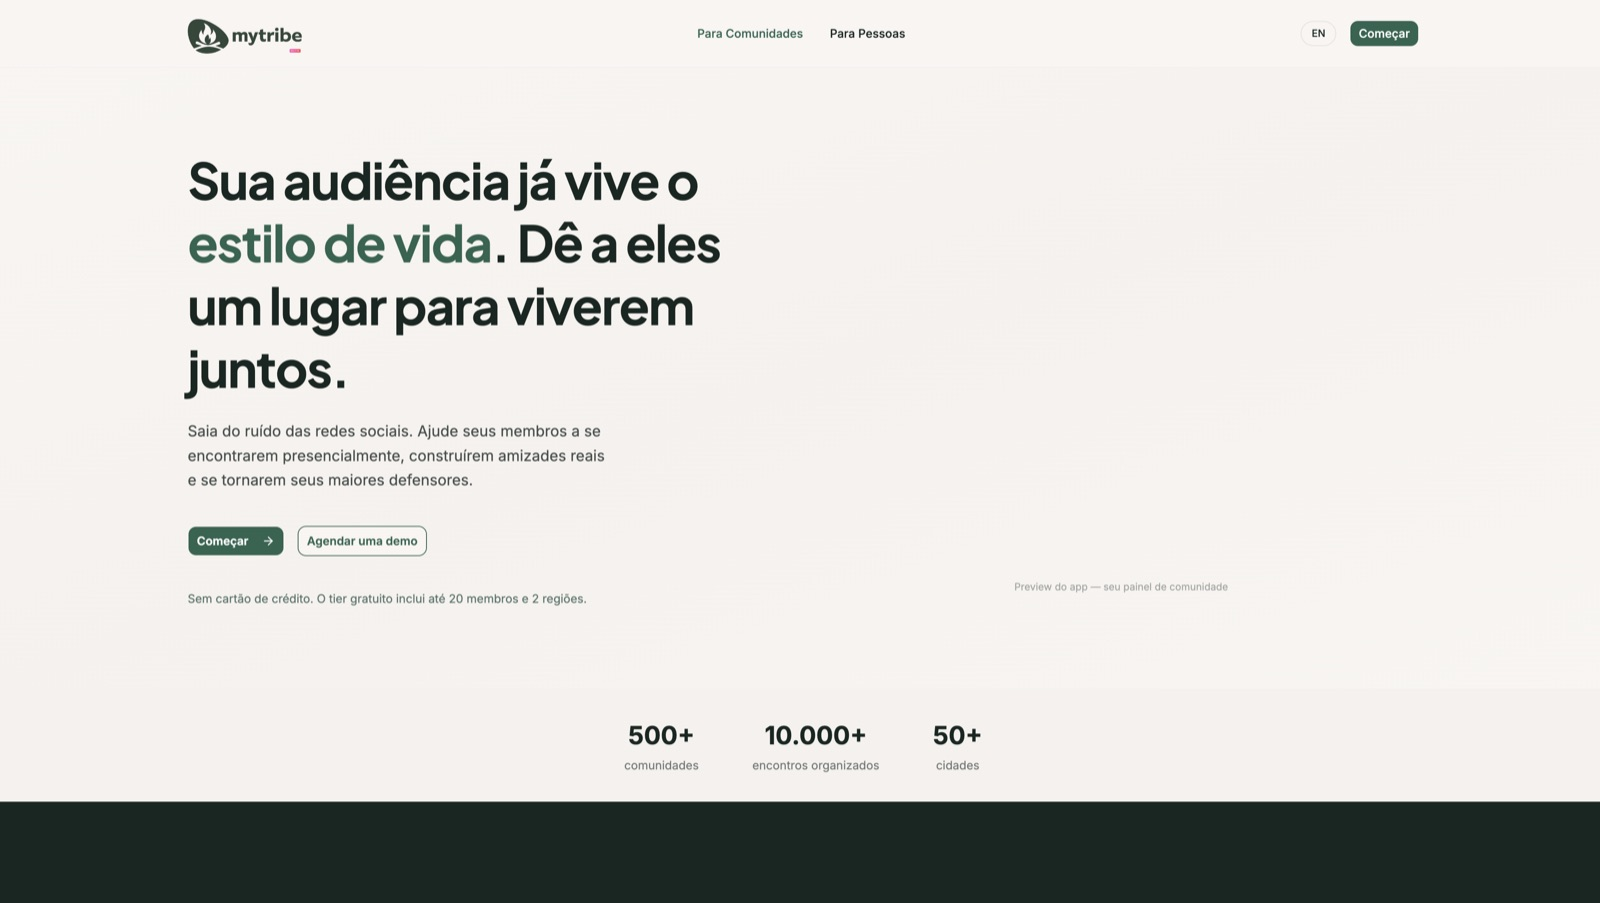
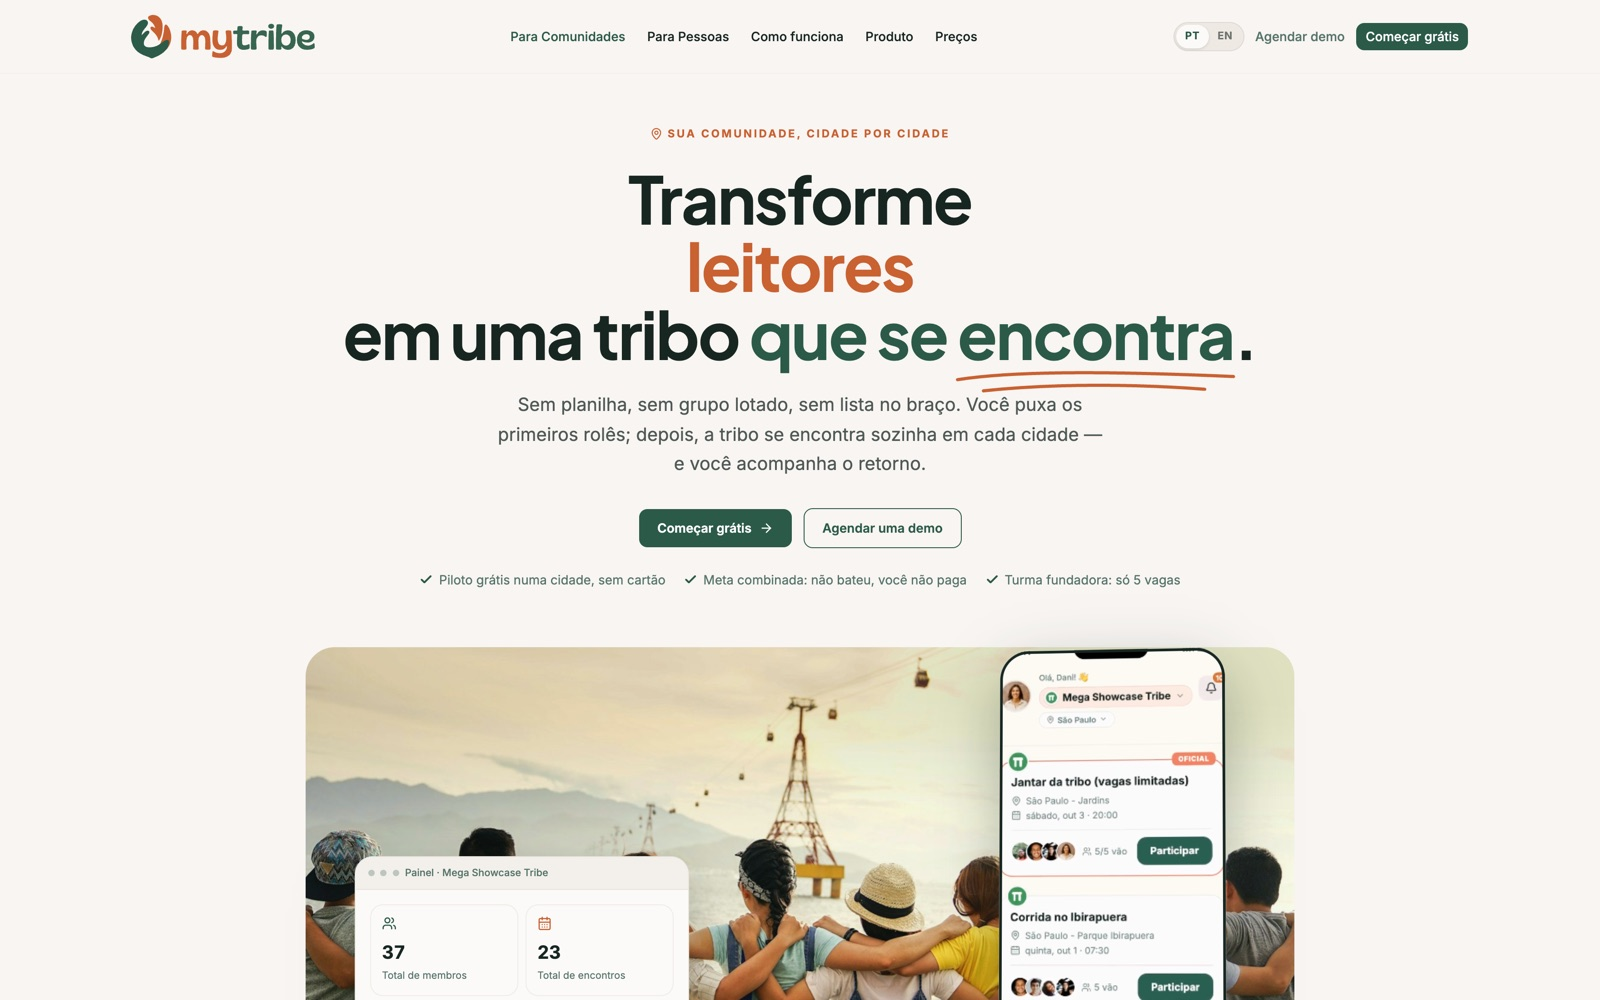
Drop Your Daily Cards from the portfolio and refresh the MyTribe cover.
The MyTribe link now points to usemytribe.com instead of the old preview landing.

diff --git a/src/lib/copy.ts b/src/lib/copy.ts
@@ -246,7 +246,7 @@ export const copies: Record<Locale, Copy> = {
       location: "Balneário Camboriú, SC",
       year: "2026",
       nowLabel: "Agora",
-      now: ["Layback", "MyTribe", "Your Daily Cards"],
+      now: ["Layback", "MyTribe"],
       talk: "Conversar",
     },
     thinking: {
@@ -316,7 +316,7 @@ export const copies: Record<Locale, Copy> = {
           title: "MyTribe",
           metric: "iOS / Android",
           body: "App de comunidades digitais: pessoas por cidade, mensagem, RSVP, push. Backend no Supabase, admin em Next.js com Stripe, convite com deep link. Eu queria um produto em que a conversa tenha para onde ir.",
-          href: "https://my-tribe-landing.vercel.app/",
+          href: "https://usemytribe.com/",
         },
         {
           id: "ritmo",
@@ -331,13 +331,6 @@ export const copies: Record<Locale, Copy> = {
           metric: "IA",
           body: "Agregador financeiro: Open Finance, cotações, patrimônio, fluxo de caixa e plano de aportes. Todo dia, o Claude lê os dados e escreve a leitura do mês em blocos visuais.",
           href: "/projetos/finance-hub",
-        },
-        {
-          id: "cards",
-          title: "Your Daily Cards",
-          metric: "app store",
-          body: "Hábitos e intenções viram a mão do dia e missões aleatórias com XP. Sem conta, sem servidor, PT e EN. O app cabe no aparelho — e essa restrição é o produto.",
-          href: "https://apps.apple.com/app/id6767341939",
         },
         {
           id: "bot",
@@ -519,7 +512,7 @@ export const copies: Record<Locale, Copy> = {
       location: "Balneário Camboriú, Brazil",
       year: "2026",
       nowLabel: "Now",
-      now: ["Layback", "MyTribe", "Your Daily Cards"],
+      now: ["Layback", "MyTribe"],
       talk: "Start a conversation",
     },
     thinking: {
@@ -589,7 +582,7 @@ export const copies: Record<Locale, Copy> = {
           title: "MyTribe",
           metric: "iOS / Android",
           body: "A social app for digital communities: people by city, messaging, RSVP, push. Supabase on the back, a Next.js admin with Stripe, invites with deep links. I wanted a product where the conversation has somewhere to go.",
-          href: "https://my-tribe-landing.vercel.app/",
+          href: "https://usemytribe.com/",
         },
         {
           id: "ritmo",
@@ -604,13 +597,6 @@ export const copies: Record<Locale, Copy> = {
           metric: "AI",
           body: "A finance aggregator: Open Finance, quotes, net worth, cash flow and a monthly investing plan. Every day, Claude reads the data and writes the month's summary as visual blocks. (Case study in Portuguese.)",
           href: "/projetos/finance-hub",
-        },
-        {
-          id: "cards",
-          title: "Your Daily Cards",
-          metric: "app store",
-          body: "Habits and intentions become a daily hand and timed missions with XP. No account, no server, PT and EN. The app lives on the phone — and that constraint is the product.",
-          href: "https://apps.apple.com/app/id6767341939",
         },
         {
           id: "bot",

diff --git a/src/components/versions/StudioPage.tsx b/src/components/versions/StudioPage.tsx
@@ -25,7 +25,6 @@ const stacks: Record<string, string[]> = {
   mytribe: ["Expo", "Supabase", "Stripe"],
   ritmo: ["Swift", "SwiftUI", "SQLite", "local-first"],
   financehub: ["Next.js", "Postgres", "Open Finance", "Claude"],
-  cards: ["React Native", "local-first"],
   bot: ["NestJS", "Rust"],
   simulation: ["Firebase", "BullMQ", "Postgres"],
   automatize: ["AI agent", "WhatsApp"],
@@ -41,7 +40,6 @@ const covers: Record<
   mytribe: { kind: "photo", src: "/comercial/mytribe.jpg", tone: "" },
   ritmo: { kind: "photo", src: "/projetos/ritmo/inicio.png", tone: "" },
   financehub: { kind: "photo", src: "/projetos/finance-hub/home.jpg", tone: "" },
-  cards: { kind: "device", src: "/comercial/cards-today.png", tone: "" },
   bot: { kind: "photo", src: "/comercial/bot.jpg", tone: "" },
   simulation: { kind: "photo", src: "/comercial/backtest.jpg", tone: "" },
   automatize: { kind: "photo", src: "/comercial/automatize.jpg", tone: "" },
